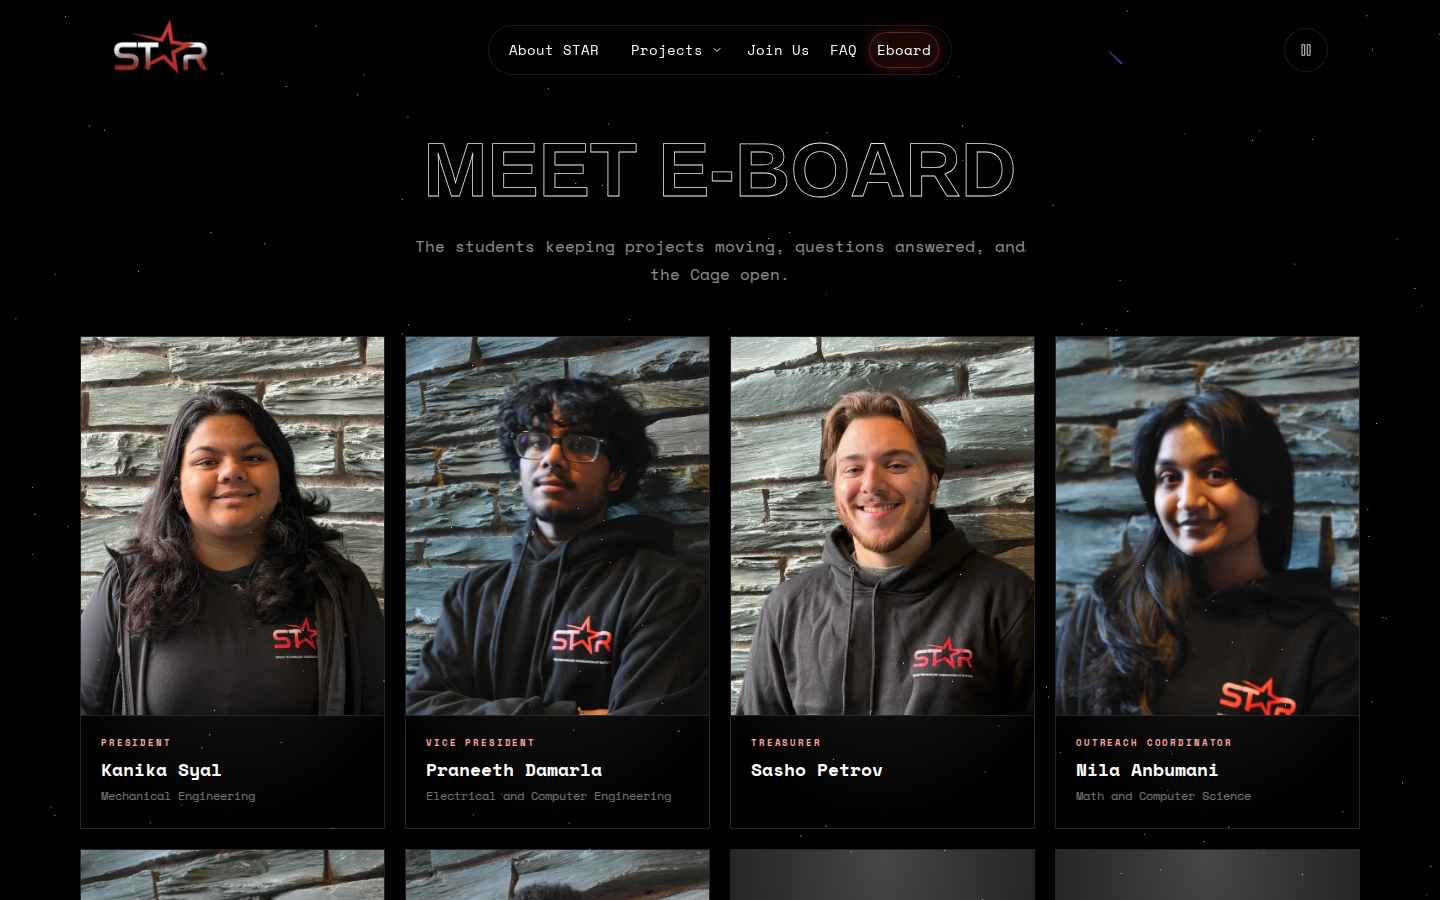
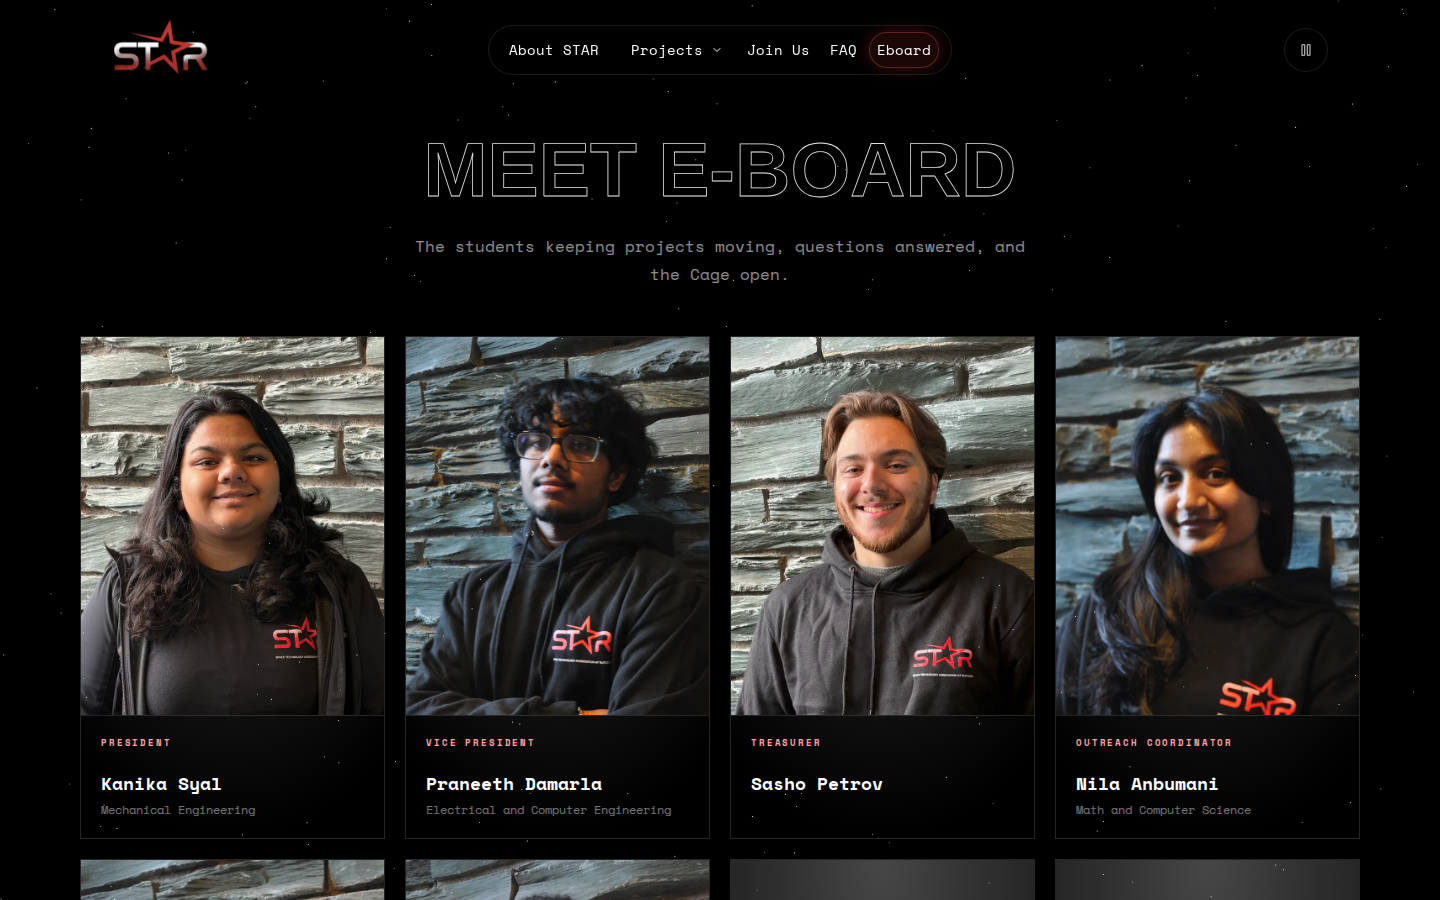
feat: add project leadership band from the people model
Each project page gets a Leadership section (05) after Subteams, listing
project managers then chief engineer from people.ts. The e-board card is
extracted into a shared PersonTile, whose role line now reserves two lines
so names align across a row (also fixes a 12px misalignment on the mobile
home grid). Supersedes the unmerged set 17 branch.

Changed region(s): [[0.0312, 0.84, 0.9375, 1.0], [0.5, 0.84, 0.625, 0.9022]]

diff --git a/src/routes/home/EboardSection.tsx b/src/routes/home/EboardSection.tsx
@@ -1,13 +1,8 @@
 import HomeSectionTitle from "../../components/HomeSectionTitle";
-import { WobbleCard } from "../../components/ui/wobble-card";
-import { UserRound } from "lucide-react";
-import { PORTRAIT_SIZE, eboard, eboardPosition } from "../../content/people";
-import { usePrefersReducedMotion } from "../../hooks/usePrefersReducedMotion";
+import PersonTile from "../../components/people/PersonTile";
+import { eboard, eboardPosition } from "../../content/people";
 
 const EboardSection = () => {
-  const reducedMotion = usePrefersReducedMotion();
-  const members = eboard();
-
   return (
     <section id="EboardSection" className="w-full scroll-mt-24 px-5 py-20 md:px-10 md:py-28">
       <div className="mx-auto w-full max-w-7xl">
@@ -17,50 +12,14 @@ const EboardSection = () => {
           description="The students keeping projects moving, questions answered, and the Cage open."
         />
         <div className="mt-12 grid grid-cols-2 gap-3 sm:gap-5 lg:grid-cols-4">
-          {members.map((member) => {
-            const position = eboardPosition(member);
-            return (
-            <WobbleCard
+          {eboard().map((member) => (
+            <PersonTile
               key={member.id}
-              animate={!reducedMotion}
-              containerClassName="group h-full rounded-none border border-white/15 bg-black"
-              className="flex h-full flex-col rounded-none bg-black"
-            >
-              <div className="aspect-[4/5] w-full overflow-hidden border-b border-white/10 bg-white/[0.025]">
-                {member.photo ? (
-                  <img
-                    className="h-full w-full object-cover transition-transform duration-500 group-hover:scale-[1.03]"
-                    src={member.photo}
-                    alt={member.name + ", " + position}
-                    width={PORTRAIT_SIZE.width}
-                    height={PORTRAIT_SIZE.height}
-                    loading="lazy"
-                    decoding="async"
-                  />
-                ) : (
-                  <div
-                    className="flex h-full w-full items-center justify-center bg-white/[0.025]"
-                    aria-hidden
-                  >
-                    <UserRound className="h-16 w-16 text-white/20 sm:h-20 sm:w-20" />
-                  </div>
-                )}
-              </div>
-
-              <div className="min-h-28 p-4 sm:p-5">
-                <p className="text-[0.52rem] font-bold uppercase tracking-[0.2em] text-red-300 sm:text-[0.58rem]">
-                  {position}
-                </p>
-                <h3 className="mt-2 text-base font-bold leading-tight sm:text-lg">{member.name}</h3>
-                {member.major && (
-                  <p className="mt-2 text-[0.65rem] leading-4 text-white/45 sm:text-xs">
-                    {member.major}
-                  </p>
-                )}
-              </div>
-            </WobbleCard>
-            );
-          })}
+              person={member}
+              role={eboardPosition(member)!}
+              detail={member.major}
+            />
+          ))}
         </div>
       </div>
     </section>

diff --git a/src/components/people/PersonTile.tsx b/src/components/people/PersonTile.tsx
@@ -1,0 +1,69 @@
+import { UserRound } from "lucide-react";
+import { cn } from "../../lib/utils";
+import { WobbleCard } from "../ui/wobble-card";
+import { PORTRAIT_SIZE, type Person } from "../../content/people";
+import { usePrefersReducedMotion } from "../../hooks/usePrefersReducedMotion";
+
+/**
+ * Rectangular portrait card used wherever a person is listed (home e-board, project
+ * leadership, team page).
+ */
+const PersonTile = ({
+  person,
+  role,
+  detail,
+  projectAccent = false,
+}: {
+  person: Person;
+  /** The role this listing is about, already formatted. */
+  role: string;
+  /** Optional muted line under the name, e.g. the person's major. */
+  detail?: string;
+  /** Color the role in the project page's --accent instead of STAR red. (The global
+   *  shadcn theme also defines --accent, so it can't serve as an implicit fallback.) */
+  projectAccent?: boolean;
+}) => {
+  const reducedMotion = usePrefersReducedMotion();
+
+  return (
+    <WobbleCard
+      animate={!reducedMotion}
+      containerClassName="group h-full rounded-none border border-white/15 bg-black"
+      className="flex h-full flex-col rounded-none bg-black"
+    >
+      <div className="aspect-[4/5] w-full overflow-hidden border-b border-white/10 bg-white/[0.025]">
+        {person.photo ? (
+          <img
+            className="h-full w-full object-cover transition-transform duration-500 group-hover:scale-[1.03]"
+            src={person.photo}
+            alt={`${person.name}, ${role}`}
+            width={PORTRAIT_SIZE.width}
+            height={PORTRAIT_SIZE.height}
+            loading="lazy"
+            decoding="async"
+          />
+        ) : (
+          <div className="flex h-full w-full items-center justify-center bg-white/[0.025]" aria-hidden>
+            <UserRound className="h-16 w-16 text-white/20 sm:h-20 sm:w-20" />
+          </div>
+        )}
+      </div>
+
+      <div className="min-h-28 p-4 sm:p-5">
+        <p
+          className={cn(
+            // Two lines reserved so names line up across a row whether or not roles wrap.
+            "min-h-[2lh] text-[0.52rem] font-bold uppercase tracking-[0.2em] sm:text-[0.58rem]",
+            projectAccent ? "text-[var(--accent)]" : "text-red-300",
+          )}
+        >
+          {role}
+        </p>
+        <h3 className="mt-2 text-base font-bold leading-tight sm:text-lg">{person.name}</h3>
+        {detail && <p className="mt-2 text-[0.65rem] leading-4 text-white/45 sm:text-xs">{detail}</p>}
+      </div>
+    </WobbleCard>
+  );
+};
+
+export default PersonTile;

diff --git a/src/components/project/ProjectShell.tsx b/src/components/project/ProjectShell.tsx
@@ -15,6 +15,9 @@ import SectionLabel from "./SectionLabel";
 import { projectConfigs, type ProjectConfig } from "./projectConfig";
 import { AccentContext } from "./accentContext";
 import { currentInfo } from "../../content/currentInfo";
+import { projectLeadership } from "../../content/people";
+import PersonTile from "../people/PersonTile";
+import { roleLabel } from "../people/roleLabel";
 
 const BRAND = "#9D2626";
 
@@ -207,9 +210,27 @@ const ProjectShell = ({
           </div>
         </section>
 
+        <section id="leadership" className="w-full scroll-mt-24 px-6 py-12 md:py-20">
+          <div className="mx-auto max-w-5xl">
+            <SectionLabel index="05">Leadership</SectionLabel>
+            <h3 className="mt-5 text-2xl font-bold">The people steering {name}.</h3>
+            <ul className="mt-10 flex flex-wrap justify-center gap-3 sm:gap-5">
+              {projectLeadership(id).map(({ person, role }) => (
+                <li key={`${person.id}-${role.position}`} className="w-[calc(50%-0.375rem)] sm:w-60">
+                  <PersonTile
+                    person={person}
+                    role={roleLabel(role, { withProject: false })}
+                    projectAccent
+                  />
+                </li>
+              ))}
+            </ul>
+          </div>
+        </section>
+
         <section id="join" className="mx-auto w-full max-w-3xl scroll-mt-24 px-6 py-12 text-center md:py-24">
           <div className="flex justify-center">
-            <SectionLabel index="05">Recruitment &amp; first step</SectionLabel>
+            <SectionLabel index="06">Recruitment &amp; first step</SectionLabel>
           </div>
           <h3 className="mx-auto mt-8 max-w-xl text-2xl font-bold">Interested in building with {name}?</h3>
           <p className="mx-auto mt-4 max-w-xl text-sm leading-7 text-white/65">

diff --git a/src/components/people/roleLabel.ts b/src/components/people/roleLabel.ts
@@ -1,0 +1,24 @@
+import type { Role } from "../../content/people";
+import { SUBTEAM_NAMES, subteamProject } from "../../content/subteams";
+import { projectConfigs } from "../project/projectConfig";
+
+const projectName = (id: string) => projectConfigs.find((config) => config.id === id)?.name ?? id;
+
+/**
+ * Display label for a role. `withProject: false` drops the project prefix where the page
+ * already names the project (the leadership band on a project page).
+ */
+export const roleLabel = (role: Role, { withProject = true } = {}) => {
+  switch (role.kind) {
+    case "eboard":
+      return role.position;
+    case "project": {
+      const title = role.scope ? `${role.position} · ${role.scope}` : role.position;
+      return withProject ? `${projectName(role.project)} · ${title}` : title;
+    }
+    case "subteam-lead": {
+      const title = `${SUBTEAM_NAMES[role.subteam]} Lead`;
+      return withProject ? `${projectName(subteamProject(role.subteam))} · ${title}` : title;
+    }
+  }
+};

diff --git a/changes/23-people-profiles/R23.3-project-leadership.md b/changes/23-people-profiles/R23.3-project-leadership.md
@@ -1,7 +1,8 @@
 # R23.3 - Project leadership band
 
-**Status:** not started
-**Files:** `src/components/project/ProjectShell.tsx`; new `src/components/people/PersonCard.tsx`
+**Status:** done
+**Files:** `src/components/project/ProjectShell.tsx`; new `src/components/people/PersonTile.tsx`,
+`src/components/people/roleLabel.ts`; `src/routes/home/EboardSection.tsx`
 
 ## Spec
 
@@ -34,11 +35,32 @@ merged and no longer applies to the restructured `ProjectShell`.
 
 Merge gate for `feat/set23/R23.3-project-leadership` -> `feat/set23-people-profiles`:
 
-- [ ] Each project page at 1440x900 and 390x844 shows the rows above, in that order, with the
+- [x] Each project page at 1440x900 and 390x844 shows the rows above, in that order, with the
       section numbered 05 and Recruitment 06. Screenshots are committed and inspected.
-- [ ] Photos for Natalia, Jordan, and Thomas; placeholders for Joseph, Devon, and Ihsan. No
+- [x] Photos for Natalia, Jordan, and Thomas; placeholders for Joseph, Devon, and Ihsan. No
       broken images.
-- [ ] No horizontal overflow (`scrollWidth <= innerWidth`), zero console errors, CLS 0.
-- [ ] `pnpm lint` zero findings; `pnpm build` exits 0.
+- [x] No horizontal overflow (`scrollWidth <= innerWidth`), zero console errors, CLS 0.
+- [x] `pnpm lint` zero findings; `pnpm build` exits 0.
 
 ## Notes / log
+- 2026-10-05 - **Deviation: rectangular tiles, not set 17's circles.** Set 17 chose a red-400
+  ringed circle so leadership would "look identical site-wide" to the e-board, which used
+  circles at the time. The e-board has since become rectangular 4:5 WobbleCard portraits
+  (design/components.md), so the rationale now points to rectangles. The e-board card was
+  extracted into a shared `PersonTile` (home, leadership band, and R23.5's team page). Easy to
+  revert to circles if the user prefers. Flagged at the merge checkpoint.
+- 2026-10-05 - `PersonTile` takes `projectAccent` instead of relying on a CSS-variable fallback,
+  because shadcn's theme defines `--accent` globally (`App.css`, a grey), so
+  `var(--accent, red)` would have turned the home eyebrows grey.
+- 2026-10-05 - Fixed name misalignment across a row when one role wraps and another does not
+  (Robotics "Project Manager · Internal" needs 204 px of a 198 px line). This was also present
+  on main's mobile home grid: Aayushi's name sat 12 px below Julian's. The role line now
+  reserves two lines (`min-h-[2lh]`), and measured name offsets are equal within 1 px in every
+  row on home mobile and the Robotics band.
+- 2026-10-05 - Gate: lint 0 findings, build 0. A DOM check on all three pages matches the table
+  above in order (names, role labels, photos vs placeholders), with section labels 01 to 06 and
+  eyebrows in each project's accent (#F5A524 / #34D399 / #38BDF8); the home stays red-300. At
+  1440x900 and 390x844: no overflow, broken images, failed requests, or console errors. Mobile
+  CLS of 0.015-0.022 equals main exactly (3 runs each) and comes from the project hero, not this
+  section. The prerender script only writes head/meta and share cards, so it needs no change.
+  Screenshots committed.

diff --git a/changes/23-people-profiles/_set.md b/changes/23-people-profiles/_set.md
@@ -32,7 +32,7 @@ re-sourced from the people model instead of a second name list.
 <!-- markers: [ ] not started · [~] in progress · [t] tests passing, awaiting merge · [x] merged -->
 - [x] R23.1 - People model: `src/content/people.ts` is the single source of names and roles; e-board grid and subteam leads derive from it (no visual change)
 - [x] R23.2 - Portraits: five new photos, id-named files under `public/people/`, consistent framing across the grid
-- [ ] R23.3 - Project leadership band on each project page, derived from the model
+- [x] R23.3 - Project leadership band on each project page, derived from the model
 - [ ] R23.4 - Person profile dialog: every person card opens a deep-linkable profile listing all roles
 - [ ] R23.5 - Team page: `/team` lists everyone once with role filters; navbar "Eboard" becomes "Team"
 
@@ -55,8 +55,8 @@ All resolved by the user on 2026-10-05:
 
 ## Unrelated issues noticed (not fixed in this set)
 - `pnpm build` warns that `canvas-reveal-effect` is an 857 kB chunk (pre-existing on main).
-- Mobile home CLS is 0.0148, not the 0 R19.5 recorded. The hero canvas, headline, and CTA row
-  move 28 px during load, identically on main. This is within "good" (< 0.1); worth a
+- Mobile CLS is 0.015-0.022 on home and all project pages, not the 0 R19.5 recorded. The
+  hero canvas, headline, and CTA row move about 28 px during load, identically on main. This is within "good" (< 0.1); worth a
   look in a later performance set.
 - Design note, not a defect: on mobile the transparent navbar logo overlays content when you
   scroll (for example the e-board photos). This is by design since R13.2, which limits the
